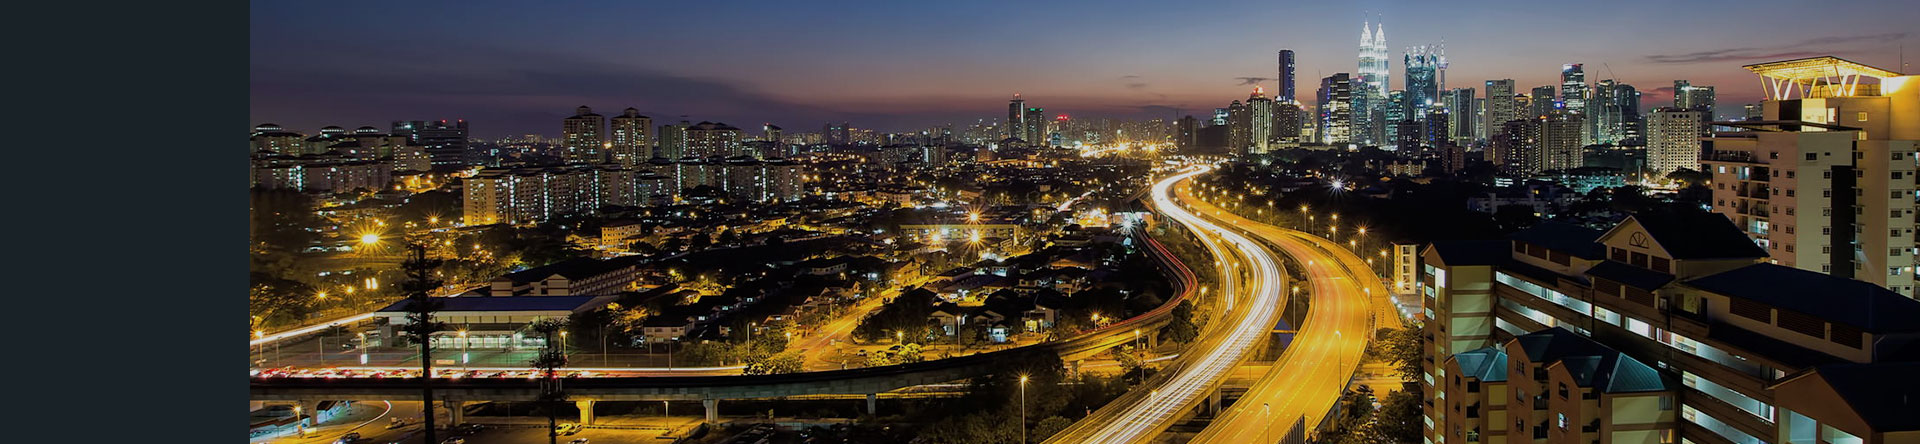
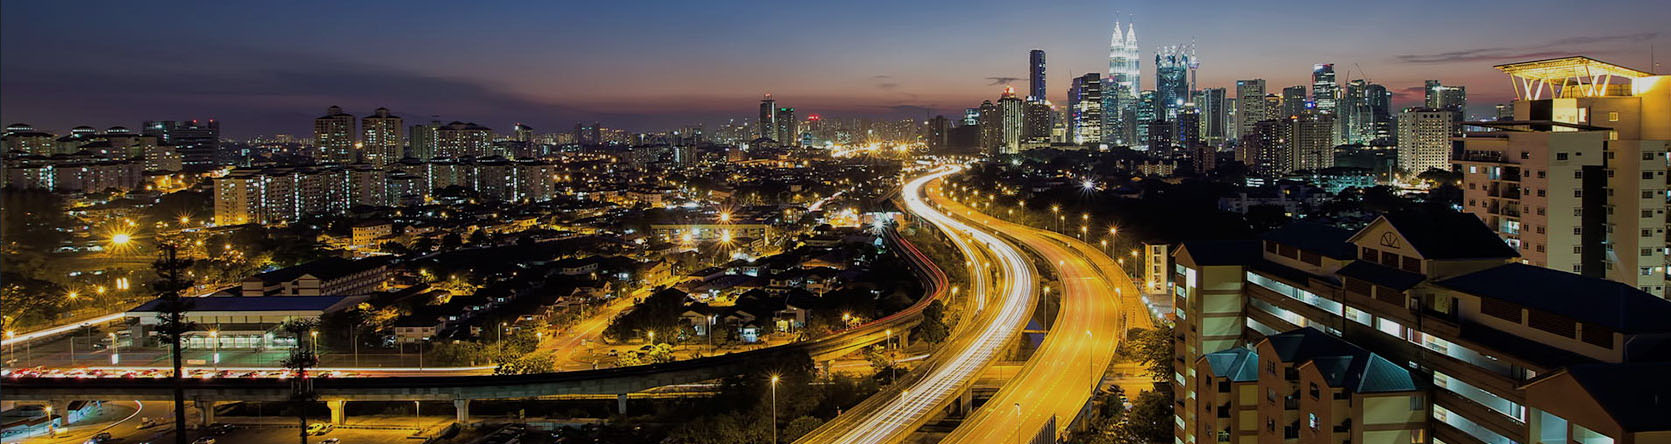
images

diff --git a/qzlspc/src/view/home.vue b/qzlspc/src/view/home.vue
@@ -11,7 +11,7 @@ import Broadcast from '../components/Broadcast'
 		name:'home',
 		data(){
 			return{
-				imgurlN:['static/banner.jpg','../../static/images/banner.jpg']
+				imgurlN:['static/images/banner.jpg','../../static/images/banner.jpg']
 			}
 		},
 		components:{
